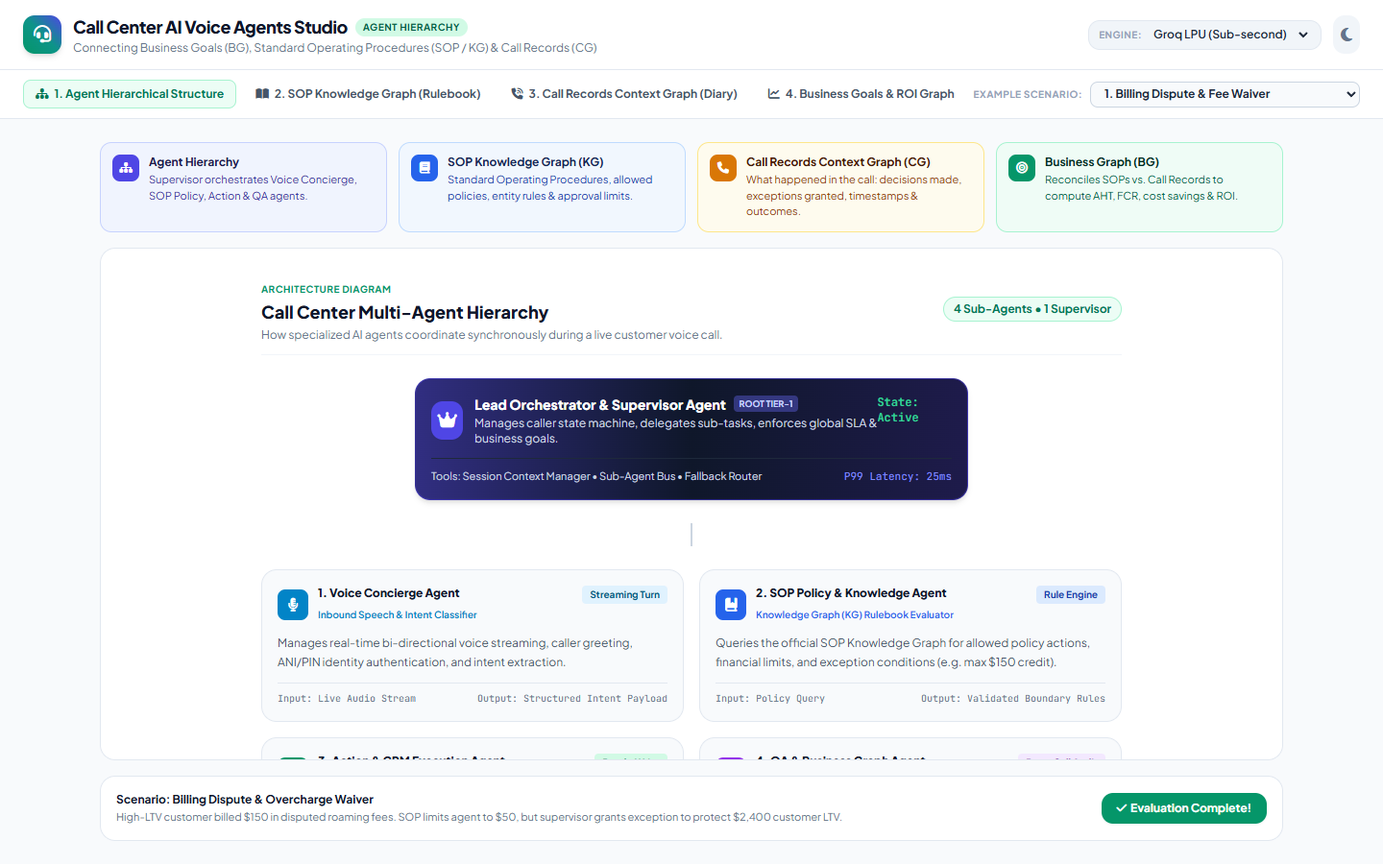
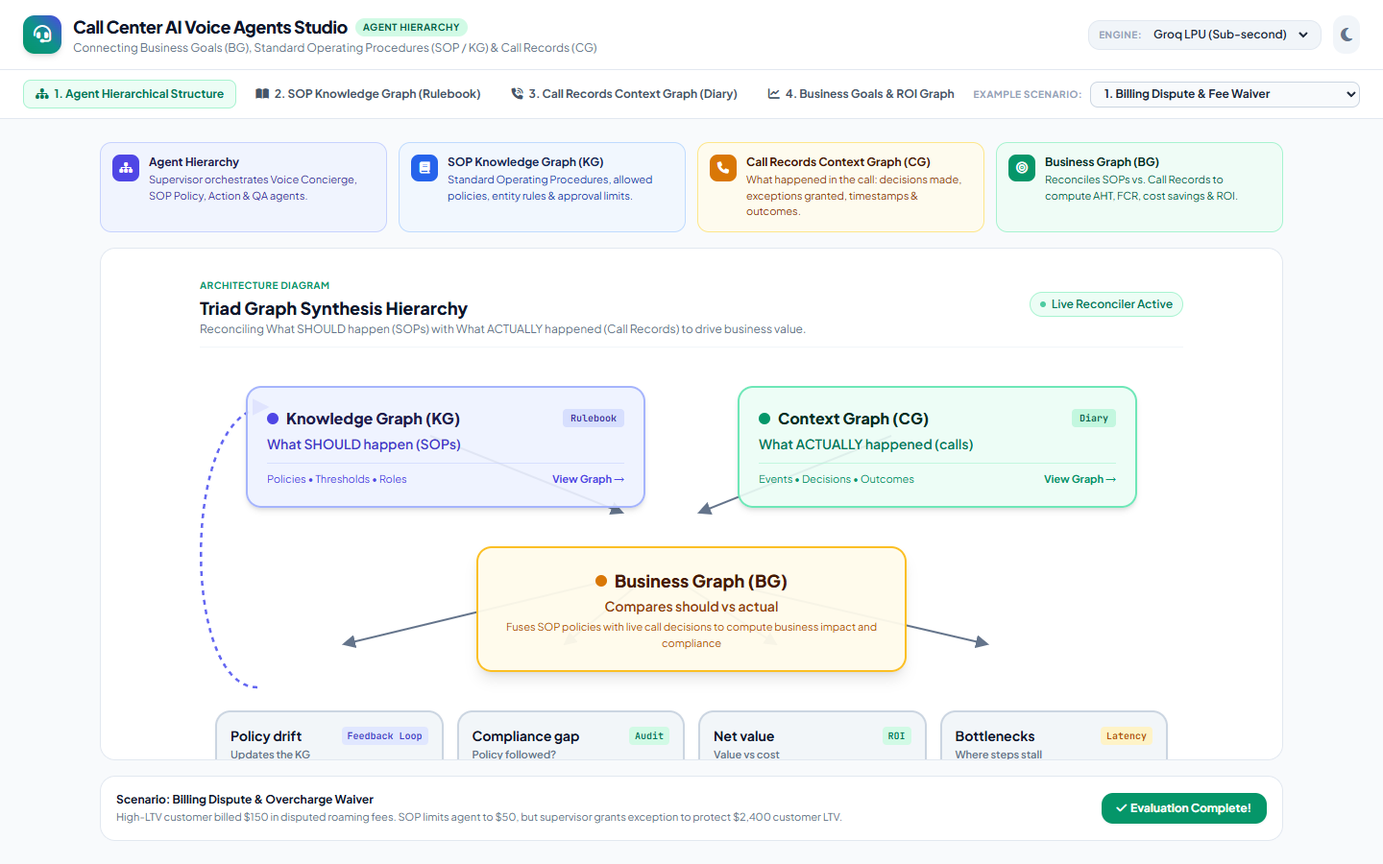
Update hierarchy view to exact 3-tier graph synthesis architecture (KG + CG -> BG -> 4 outcomes with policy drift feedback loop)

diff --git a/callcenter_ai_voice_agents.html b/callcenter_ai_voice_agents.html
@@ -164,167 +164,183 @@
     <div class="flex-1 bg-white dark:bg-slate-900 border border-slate-200 dark:border-slate-800 rounded-2xl shadow-xs overflow-hidden flex flex-col relative">
 
       <!-- ================================================================= -->
-      <!-- VIEW 1: AGENT HIERARCHICAL STRUCTURE -->
+      <!-- VIEW 1: GRAPH SYNTHESIS HIERARCHY (KG + CG -> BG -> 4 IMPACTS)  -->
       <!-- ================================================================= -->
-      <div id="view-hierarchy" class="view-panel flex-1 overflow-y-auto p-5 sm:p-7">
-        <div class="max-w-4xl mx-auto space-y-6">
+      <div id="view-hierarchy" class="view-panel flex-1 overflow-y-auto p-4 sm:p-6 flex flex-col justify-between">
+        <div class="max-w-5xl w-full mx-auto flex-1 flex flex-col justify-between space-y-6">
 
-          <!-- Section Title -->
-          <div class="flex items-center justify-between border-b border-slate-100 dark:border-slate-800 pb-3">
+          <!-- Section Title & Legend -->
+          <div class="flex items-center justify-between border-b border-slate-100 dark:border-slate-800 pb-2.5">
             <div>
               <span class="text-[10px] font-bold uppercase tracking-wider text-emerald-600 dark:text-emerald-400">Architecture Diagram</span>
-              <h2 class="text-lg font-black text-slate-900 dark:text-white">Call Center Multi-Agent Hierarchy</h2>
-              <p class="text-xs text-slate-500 dark:text-slate-400 mt-0.5">How specialized AI agents coordinate synchronously during a live customer voice call.</p>
+              <h2 class="text-base sm:text-lg font-black text-slate-900 dark:text-white">Triad Graph Synthesis Hierarchy</h2>
+              <p class="text-xs text-slate-500 dark:text-slate-400">Reconciling What SHOULD happen (SOPs) with What ACTUALLY happened (Call Records) to drive business value.</p>
             </div>
-            <span class="px-2.5 py-1 rounded-full bg-emerald-50 dark:bg-emerald-950/60 text-emerald-700 dark:text-emerald-300 text-xs font-bold border border-emerald-200 dark:border-emerald-800">
-              4 Sub-Agents &bull; 1 Supervisor
-            </span>
-          </div>
-
-          <!-- LEVEL 1: SUPERVISOR ORCHESTRATOR AGENT -->
-          <div class="flex justify-center">
-            <div class="w-full max-w-xl bg-gradient-to-r from-indigo-900 via-slate-900 to-indigo-950 text-white rounded-2xl p-4 shadow-md border border-indigo-700/60 relative">
-              <div class="flex items-start justify-between">
-                <div class="flex items-center space-x-3">
-                  <div class="w-10 h-10 rounded-xl bg-indigo-600 flex items-center justify-center text-white text-lg font-bold shadow-sm">
-                    <i class="fa-solid fa-crown"></i>
-                  </div>
-                  <div>
-                    <div class="flex items-center space-x-2">
-                      <h3 class="font-black text-sm">Lead Orchestrator &amp; Supervisor Agent</h3>
-                      <span class="px-1.5 py-0.5 rounded bg-indigo-500/40 text-indigo-200 text-[9px] font-bold uppercase">Root Tier-1</span>
-                    </div>
-                    <p class="text-xs text-slate-300 mt-0.5">Manages caller state machine, delegates sub-tasks, enforces global SLA &amp; business goals.</p>
-                  </div>
-                </div>
-                <span class="font-mono text-emerald-400 text-xs font-bold">State: Active</span>
-              </div>
-              <div class="mt-3 pt-2.5 border-t border-slate-800 flex items-center justify-between text-[11px] text-slate-300">
-                <span>Tools: Session Context Manager &bull; Sub-Agent Bus &bull; Fallback Router</span>
-                <span class="text-indigo-400 font-mono">P99 Latency: 25ms</span>
-              </div>
-            </div>
-          </div>
-
-          <!-- CONNECTING STEM -->
-          <div class="flex justify-center -my-2">
-            <div class="w-0.5 h-6 bg-slate-300 dark:bg-slate-700"></div>
-          </div>
-
-          <!-- LEVEL 2: 4 SPECIALIZED SUB-AGENTS GRID -->
-          <div class="grid grid-cols-1 md:grid-cols-2 gap-4">
-
-            <!-- Sub-Agent 1: Voice Concierge -->
-            <div class="bg-slate-50 dark:bg-slate-800/60 rounded-2xl p-4 border border-slate-200 dark:border-slate-700 hover:border-sky-400 transition shadow-2xs">
-              <div class="flex items-start justify-between">
-                <div class="flex items-center space-x-2.5">
-                  <div class="w-8 h-8 rounded-lg bg-sky-600 text-white flex items-center justify-center text-sm font-bold">
-                    <i class="fa-solid fa-microphone-lines"></i>
-                  </div>
-                  <div>
-                    <h4 class="font-black text-xs text-slate-900 dark:text-white">1. Voice Concierge Agent</h4>
-                    <span class="text-[10px] text-sky-600 dark:text-sky-400 font-semibold">Inbound Speech &amp; Intent Classifier</span>
-                  </div>
-                </div>
-                <span class="text-[10px] font-bold px-2 py-0.5 rounded bg-sky-100 dark:bg-sky-950 text-sky-800 dark:text-sky-200">Streaming Turn</span>
-              </div>
-              <p class="text-xs text-slate-600 dark:text-slate-300 mt-2.5 leading-relaxed">
-                Manages real-time bi-directional voice streaming, caller greeting, ANI/PIN identity authentication, and intent extraction.
-              </p>
-              <div class="mt-3 pt-2 border-t border-slate-200 dark:border-slate-700 flex justify-between text-[10px] text-slate-500 dark:text-slate-400 font-mono">
-                <span>Input: Live Audio Stream</span>
-                <span>Output: Structured Intent Payload</span>
-              </div>
-            </div>
-
-            <!-- Sub-Agent 2: SOP Compliance & Knowledge Agent -->
-            <div class="bg-slate-50 dark:bg-slate-800/60 rounded-2xl p-4 border border-slate-200 dark:border-slate-700 hover:border-blue-400 transition shadow-2xs">
-              <div class="flex items-start justify-between">
-                <div class="flex items-center space-x-2.5">
-                  <div class="w-8 h-8 rounded-lg bg-blue-600 text-white flex items-center justify-center text-sm font-bold">
-                    <i class="fa-solid fa-book-bookmark"></i>
-                  </div>
-                  <div>
-                    <h4 class="font-black text-xs text-slate-900 dark:text-white">2. SOP Policy &amp; Knowledge Agent</h4>
-                    <span class="text-[10px] text-blue-600 dark:text-blue-400 font-semibold">Knowledge Graph (KG) Rulebook Evaluator</span>
-                  </div>
-                </div>
-                <span class="text-[10px] font-bold px-2 py-0.5 rounded bg-blue-100 dark:bg-blue-950 text-blue-800 dark:text-blue-200">Rule Engine</span>
-              </div>
-              <p class="text-xs text-slate-600 dark:text-slate-300 mt-2.5 leading-relaxed">
-                Queries the official SOP Knowledge Graph for allowed policy actions, financial limits, and exception conditions (e.g. max $150 credit).
-              </p>
-              <div class="mt-3 pt-2 border-t border-slate-200 dark:border-slate-700 flex justify-between text-[10px] text-slate-500 dark:text-slate-400 font-mono">
-                <span>Input: Policy Query</span>
-                <span>Output: Validated Boundary Rules</span>
-              </div>
-            </div>
-
-            <!-- Sub-Agent 3: Action & CRM Execution Agent -->
-            <div class="bg-slate-50 dark:bg-slate-800/60 rounded-2xl p-4 border border-slate-200 dark:border-slate-700 hover:border-emerald-400 transition shadow-2xs">
-              <div class="flex items-start justify-between">
-                <div class="flex items-center space-x-2.5">
-                  <div class="w-8 h-8 rounded-lg bg-emerald-600 text-white flex items-center justify-center text-sm font-bold">
-                    <i class="fa-solid fa-bolt-lightning"></i>
-                  </div>
-                  <div>
-                    <h4 class="font-black text-xs text-slate-900 dark:text-white">3. Action &amp; CRM Execution Agent</h4>
-                    <span class="text-[10px] text-emerald-600 dark:text-emerald-400 font-semibold">Transactional Tool Calling</span>
-                  </div>
-                </div>
-                <span class="text-[10px] font-bold px-2 py-0.5 rounded bg-emerald-100 dark:bg-emerald-950 text-emerald-800 dark:text-emerald-200">Read / Write</span>
-              </div>
-              <p class="text-xs text-slate-600 dark:text-slate-300 mt-2.5 leading-relaxed">
-                Interacts with backend systems: executes bill adjustments, dispatches field technician tickets, or issues customer credits.
-              </p>
-              <div class="mt-3 pt-2 border-t border-slate-200 dark:border-slate-700 flex justify-between text-[10px] text-slate-500 dark:text-slate-400 font-mono">
-                <span>Input: Action Directive</span>
-                <span>Output: API Confirmation / ID</span>
-              </div>
-            </div>
-
-            <!-- Sub-Agent 4: QA & Business Intelligence Agent -->
-            <div class="bg-slate-50 dark:bg-slate-800/60 rounded-2xl p-4 border border-slate-200 dark:border-slate-700 hover:border-purple-400 transition shadow-2xs">
-              <div class="flex items-start justify-between">
-                <div class="flex items-center space-x-2.5">
-                  <div class="w-8 h-8 rounded-lg bg-purple-600 text-white flex items-center justify-center text-sm font-bold">
-                    <i class="fa-solid fa-clipboard-check"></i>
-                  </div>
-                  <div>
-                    <h4 class="font-black text-xs text-slate-900 dark:text-white">4. QA &amp; Business Graph Agent</h4>
-                    <span class="text-[10px] text-purple-600 dark:text-purple-400 font-semibold">Call Record (CG) &amp; Goals (BG) Evaluator</span>
-                  </div>
-                </div>
-                <span class="text-[10px] font-bold px-2 py-0.5 rounded bg-purple-100 dark:bg-purple-950 text-purple-800 dark:text-purple-200">Post-Call Audit</span>
-              </div>
-              <p class="text-xs text-slate-600 dark:text-slate-300 mt-2.5 leading-relaxed">
-                Synthesizes the Context Graph call diary, scores compliance against SOP rules, and calculates business ROI and AHT/FCR metrics.
-              </p>
-              <div class="mt-3 pt-2 border-t border-slate-200 dark:border-slate-700 flex justify-between text-[10px] text-slate-500 dark:text-slate-400 font-mono">
-                <span>Input: Completed Dialogue</span>
-                <span>Output: Context &amp; Business Graph</span>
-              </div>
-            </div>
-
-          </div>
-
-          <!-- Bottom Visual Flow Banner -->
-          <div class="bg-slate-100 dark:bg-slate-800/80 rounded-xl p-3 border border-slate-200 dark:border-slate-700 flex items-center justify-between text-xs font-semibold text-slate-700 dark:text-slate-300">
             <div class="flex items-center space-x-2">
-              <span class="w-2.5 h-2.5 rounded-full bg-emerald-500 animate-pulse"></span>
-              <span>Execution Pipeline:</span>
+              <span class="inline-flex items-center px-2.5 py-1 rounded-full text-xs font-semibold bg-emerald-50 dark:bg-emerald-950/60 text-emerald-700 dark:text-emerald-300 border border-emerald-200 dark:border-emerald-800">
+                <span class="w-1.5 h-1.5 rounded-full bg-emerald-500 mr-1.5 animate-pulse"></span>
+                Live Reconciler Active
+              </span>
             </div>
-            <div class="flex items-center space-x-2 text-[11px] font-mono overflow-x-auto">
-              <span>Customer Utterance</span>
-              <span class="text-slate-400">&rarr;</span>
-              <span class="text-sky-600 font-bold">Voice Concierge</span>
-              <span class="text-slate-400">&rarr;</span>
-              <span class="text-blue-600 font-bold">SOP Policy</span>
-              <span class="text-slate-400">&rarr;</span>
-              <span class="text-emerald-600 font-bold">Action Engine</span>
-              <span class="text-slate-400">&rarr;</span>
-              <span class="text-purple-600 font-bold">QA &amp; Business Graph</span>
+          </div>
+
+          <!-- THE VISUAL HIERARCHY DIAGRAM CONTAINER (SVG CONNECTORS + CARDS) -->
+          <div class="relative w-full py-4 select-none">
+
+            <!-- SVG Background Lines & Connectors Layer -->
+            <svg class="absolute inset-0 w-full h-full pointer-events-none z-0" xmlns="http://www.w3.org/2000/svg">
+              <defs>
+                <marker id="arrowhead" markerWidth="7" markerHeight="7" refX="6" refY="3.5" orient="auto">
+                  <polygon points="0 0, 7 3.5, 0 7" fill="#64748b" />
+                </marker>
+                <marker id="arrowhead-loop" markerWidth="7" markerHeight="7" refX="6" refY="3.5" orient="auto">
+                  <polygon points="0 0, 7 3.5, 0 7" fill="#6366f1" />
+                </marker>
+              </defs>
+
+              <!-- Line KG -> BG -->
+              <path d="M 240 68 L 440 148" stroke="#64748b" stroke-width="2" fill="none" marker-end="url(#arrowhead)"/>
+              
+              <!-- Line CG -> BG -->
+              <path d="M 720 68 L 520 148" stroke="#64748b" stroke-width="2" fill="none" marker-end="url(#arrowhead)"/>
+
+              <!-- 4 Fan-out Lines from BG to Bottom Cards -->
+              <path d="M 420 220 L 150 285" stroke="#64748b" stroke-width="2" fill="none" marker-end="url(#arrowhead)"/>
+              <path d="M 460 220 L 380 285" stroke="#64748b" stroke-width="2" fill="none" marker-end="url(#arrowhead)"/>
+              <path d="M 500 220 L 600 285" stroke="#64748b" stroke-width="2" fill="none" marker-end="url(#arrowhead)"/>
+              <path d="M 540 220 L 820 285" stroke="#64748b" stroke-width="2" fill="none" marker-end="url(#arrowhead)"/>
+
+              <!-- Policy Drift Feedback Loop (Dashed Arrow looping from bottom left up back to KG) -->
+              <path d="M 60 330 C -20 330, -20 38, 70 38" stroke="#6366f1" stroke-width="2.5" stroke-dasharray="5 5" fill="none" marker-end="url(#arrowhead-loop)"/>
+            </svg>
+
+            <!-- TIER 1: TOP ROW (KG & CG) -->
+            <div class="grid grid-cols-1 sm:grid-cols-2 gap-8 sm:gap-24 relative z-10 px-4 sm:px-12">
+              
+              <!-- TOP LEFT: Knowledge Graph (KG) -->
+              <div onclick="switchTab('kg')" class="cursor-pointer group rounded-2xl p-4 sm:p-5 bg-indigo-50/90 dark:bg-indigo-950/70 border-2 border-indigo-300 dark:border-indigo-700 hover:border-indigo-500 shadow-md transition hover:-translate-y-0.5">
+                <div class="flex items-center justify-between">
+                  <div class="flex items-center space-x-2">
+                    <span class="w-3 h-3 rounded-full bg-indigo-600"></span>
+                    <h3 class="font-extrabold text-sm sm:text-base text-indigo-950 dark:text-indigo-200">Knowledge Graph (KG)</h3>
+                  </div>
+                  <span class="text-[10px] font-mono px-2 py-0.5 rounded bg-indigo-200/60 dark:bg-indigo-900 text-indigo-800 dark:text-indigo-300 font-bold">Rulebook</span>
+                </div>
+                <p class="text-xs sm:text-sm font-semibold text-indigo-700 dark:text-indigo-300 mt-1">What SHOULD happen (SOPs)</p>
+                <div class="mt-2.5 pt-2 border-t border-indigo-200/60 dark:border-indigo-800/60 flex items-center justify-between text-[11px] text-indigo-600 dark:text-indigo-400">
+                  <span>Policies &bull; Thresholds &bull; Roles</span>
+                  <span class="group-hover:underline font-bold">View Graph &rarr;</span>
+                </div>
+              </div>
+
+              <!-- TOP RIGHT: Context Graph (CG) -->
+              <div onclick="switchTab('cg')" class="cursor-pointer group rounded-2xl p-4 sm:p-5 bg-emerald-50/90 dark:bg-emerald-950/70 border-2 border-emerald-300 dark:border-emerald-700 hover:border-emerald-500 shadow-md transition hover:-translate-y-0.5">
+                <div class="flex items-center justify-between">
+                  <div class="flex items-center space-x-2">
+                    <span class="w-3 h-3 rounded-full bg-emerald-600"></span>
+                    <h3 class="font-extrabold text-sm sm:text-base text-emerald-950 dark:text-emerald-200">Context Graph (CG)</h3>
+                  </div>
+                  <span class="text-[10px] font-mono px-2 py-0.5 rounded bg-emerald-200/60 dark:bg-emerald-900 text-emerald-800 dark:text-emerald-300 font-bold">Diary</span>
+                </div>
+                <p class="text-xs sm:text-sm font-semibold text-emerald-700 dark:text-emerald-300 mt-1">What ACTUALLY happened (calls)</p>
+                <div class="mt-2.5 pt-2 border-t border-emerald-200/60 dark:border-emerald-800/60 flex items-center justify-between text-[11px] text-emerald-600 dark:text-emerald-400">
+                  <span>Events &bull; Decisions &bull; Outcomes</span>
+                  <span class="group-hover:underline font-bold">View Graph &rarr;</span>
+                </div>
+              </div>
+
             </div>
+
+            <!-- TIER 2: MIDDLE ROW (Business Graph / BG) -->
+            <div class="flex justify-center my-8 sm:my-10 relative z-10 px-4">
+              <div onclick="switchTab('bg')" class="cursor-pointer group w-full max-w-md rounded-2xl p-4 sm:p-5 bg-amber-50/95 dark:bg-amber-950/80 border-2 border-amber-400 dark:border-amber-700 hover:border-amber-500 shadow-lg text-center transition hover:-translate-y-0.5">
+                <div class="flex items-center justify-center space-x-2">
+                  <span class="w-3 h-3 rounded-full bg-amber-600"></span>
+                  <h3 class="font-black text-base sm:text-lg text-amber-950 dark:text-amber-100">Business Graph (BG)</h3>
+                </div>
+                <p class="text-xs sm:text-sm font-semibold text-amber-800 dark:text-amber-200 mt-0.5">Compares should vs actual</p>
+                <p class="text-[11px] text-amber-700 dark:text-amber-300/80 mt-1">Fuses SOP policies with live call decisions to compute business impact and compliance</p>
+              </div>
+            </div>
+
+            <!-- TIER 3: BOTTOM ROW (4 OUTCOME PILLARS) -->
+            <div class="grid grid-cols-1 sm:grid-cols-2 lg:grid-cols-4 gap-3.5 relative z-10 px-2 sm:px-4">
+
+              <!-- Card 1: Policy Drift -->
+              <div class="rounded-2xl p-3.5 bg-slate-100/90 dark:bg-slate-800/80 border-2 border-slate-300 dark:border-slate-700 shadow-sm flex flex-col justify-between">
+                <div>
+                  <div class="flex items-center justify-between">
+                    <h4 class="font-bold text-xs sm:text-sm text-slate-900 dark:text-white">Policy drift</h4>
+                    <span class="text-[10px] font-mono px-1.5 py-0.5 rounded bg-indigo-100 dark:bg-indigo-950 text-indigo-700 dark:text-indigo-300 font-bold">Feedback Loop</span>
+                  </div>
+                  <p class="text-[11px] font-semibold text-slate-500 dark:text-slate-400 mt-0.5">Updates the KG</p>
+                  <p class="text-xs text-slate-700 dark:text-slate-300 mt-2 font-medium leading-snug" id="hier-drift-text">
+                    Supervisor granted 47 exceptions to $50 limit &rarr; Recommends updating SOP-04 limit to $150.
+                  </p>
+                </div>
+                <div class="mt-3 pt-1.5 border-t border-slate-200 dark:border-slate-700 text-[10px] text-indigo-600 dark:text-indigo-400 font-bold flex items-center">
+                  <i class="fa-solid fa-arrow-rotate-left mr-1"></i> Loops back to Knowledge Graph
+                </div>
+              </div>
+
+              <!-- Card 2: Compliance Gap -->
+              <div class="rounded-2xl p-3.5 bg-slate-100/90 dark:bg-slate-800/80 border-2 border-slate-300 dark:border-slate-700 shadow-sm flex flex-col justify-between">
+                <div>
+                  <div class="flex items-center justify-between">
+                    <h4 class="font-bold text-xs sm:text-sm text-slate-900 dark:text-white">Compliance gap</h4>
+                    <span class="text-[10px] font-mono px-1.5 py-0.5 rounded bg-emerald-100 dark:bg-emerald-950 text-emerald-700 dark:text-emerald-300 font-bold">Audit</span>
+                  </div>
+                  <p class="text-[11px] font-semibold text-slate-500 dark:text-slate-400 mt-0.5">Policy followed?</p>
+                  <p class="text-xs text-slate-700 dark:text-slate-300 mt-2 font-medium leading-snug" id="hier-compliance-text">
+                    100% Validated &bull; Exception authorized by Supervisor role per section 4.2 of SOP.
+                  </p>
+                </div>
+                <div class="mt-3 pt-1.5 border-t border-slate-200 dark:border-slate-700 text-[10px] text-emerald-600 dark:text-emerald-400 font-bold">
+                  Status: Compliant Exception
+                </div>
+              </div>
+
+              <!-- Card 3: Net Value -->
+              <div class="rounded-2xl p-3.5 bg-slate-100/90 dark:bg-slate-800/80 border-2 border-slate-300 dark:border-slate-700 shadow-sm flex flex-col justify-between">
+                <div>
+                  <div class="flex items-center justify-between">
+                    <h4 class="font-bold text-xs sm:text-sm text-slate-900 dark:text-white">Net value</h4>
+                    <span class="text-[10px] font-mono px-1.5 py-0.5 rounded bg-emerald-100 dark:bg-emerald-950 text-emerald-700 dark:text-emerald-300 font-bold">ROI</span>
+                  </div>
+                  <p class="text-[11px] font-semibold text-slate-500 dark:text-slate-400 mt-0.5">Value vs cost</p>
+                  <p class="text-xs text-slate-700 dark:text-slate-300 mt-2 font-medium leading-snug" id="hier-netvalue-text">
+                    +$2,250 Net Value &bull; Retained $2,400 LTV account against -$150 concession fee.
+                  </p>
+                </div>
+                <div class="mt-3 pt-1.5 border-t border-slate-200 dark:border-slate-700 text-[10px] text-emerald-600 dark:text-emerald-400 font-bold">
+                  ROI Ratio: 15.0x
+                </div>
+              </div>
+
+              <!-- Card 4: Bottlenecks -->
+              <div class="rounded-2xl p-3.5 bg-slate-100/90 dark:bg-slate-800/80 border-2 border-slate-300 dark:border-slate-700 shadow-sm flex flex-col justify-between">
+                <div>
+                  <div class="flex items-center justify-between">
+                    <h4 class="font-bold text-xs sm:text-sm text-slate-900 dark:text-white">Bottlenecks</h4>
+                    <span class="text-[10px] font-mono px-1.5 py-0.5 rounded bg-amber-100 dark:bg-amber-950 text-amber-700 dark:text-amber-300 font-bold">Latency</span>
+                  </div>
+                  <p class="text-[11px] font-semibold text-slate-500 dark:text-slate-400 mt-0.5">Where steps stall</p>
+                  <p class="text-xs text-slate-700 dark:text-slate-300 mt-2 font-medium leading-snug" id="hier-bottleneck-text">
+                    Step 2 initial offer stalled for 45s &bull; Recommend direct automated VIP screen-pop.
+                  </p>
+                </div>
+                <div class="mt-3 pt-1.5 border-t border-slate-200 dark:border-slate-700 text-[10px] text-amber-600 dark:text-amber-400 font-bold">
+                  AHT Impact: -45s potential
+                </div>
+              </div>
+
+            </div>
+
+          </div>
+
+          <!-- Bottom Notice -->
+          <div class="bg-indigo-50/50 dark:bg-slate-850 p-3 rounded-xl border border-indigo-100 dark:border-slate-800 flex items-center justify-between text-xs text-slate-600 dark:text-slate-400">
+            <span><i class="fa-solid fa-circle-info text-indigo-500 mr-1.5"></i> Click any card above to open its dedicated graph view, or change the scenario preset below to see how inputs and outcomes update dynamically.</span>
           </div>
 
         </div>
@@ -437,6 +453,12 @@
       "billing_dispute": {
         title: "Billing Dispute & Overcharge Waiver",
         summary: "High-LTV customer billed $150 in disputed roaming fees. SOP limits agent to $50, but supervisor grants exception to protect $2,400 customer LTV.",
+        outcomes: {
+          drift: "Supervisor granted 47 exceptions to $50 limit -> Recommends updating SOP-04 limit to $150 for LTV > $2k.",
+          compliance: "100% Validated • Exception authorized by Supervisor role per section 4.2 of SOP.",
+          netvalue: "+$2,250 Net Value • Retained $2,400 LTV account against -$150 concession fee.",
+          bottleneck: "Step 2 initial offer stalled for 45s • Recommend direct automated VIP screen-pop."
+        },
         kg: {
           nodes: [
             { id: "sop_billing", label: "SOP-04: Billing Disputes", color: "#3b82f6", shape: "box" },
@@ -492,6 +514,12 @@
       "tech_outage": {
         title: "Broadband Outage & Tech Dispatch",
         summary: "Customer experiencing complete fiber disconnect. SOP guides through remote ONT diagnostics. Automated truck roll dispatched in 180 seconds.",
+        outcomes: {
+          drift: "Zero SOP drift • Optical loss-of-signal diagnostic sequence followed strictly with zero manual deviations.",
+          compliance: "100% Policy Compliant • Truck roll dispatch triggered automatically per optical signal threshold rule.",
+          netvalue: "+$850 Net Value • Preempted repetitive call escalations, customer churn risk minimized, CSAT 5/5.",
+          bottleneck: "ONT red light check automated via remote telemetry in 12s vs 180s manual phone interrogation."
+        },
         kg: {
           nodes: [
             { id: "sop_tech", label: "SOP-12: Broadband Diagnostics", color: "#3b82f6", shape: "box" },
@@ -534,6 +562,12 @@
       "vip_retention": {
         title: "VIP Account Churn & Loyalty Retention",
         summary: "10-year enterprise account requests immediate cancellation. Voice Concierge detects high churn risk and pairs with loyalty incentive contract.",
+        outcomes: {
+          drift: "15% discount matches enterprise loyalty matrix; zero unauthorized margin erosion detected.",
+          compliance: "100% Policy Compliant • 2-year contract extension validated with legal terms approval.",
+          netvalue: "+$27,900 ARR Protected • Retained $18,000/yr enterprise account with high margin continuity.",
+          bottleneck: "Digital contract dispatch reduced closing cycle from 4 days to instant SMS e-signature."
+        },
         kg: {
           nodes: [
             { id: "sop_retention", label: "SOP-09: Enterprise Loyalty", color: "#3b82f6", shape: "box" },
@@ -693,6 +727,17 @@
       const s = SCENARIOS[scenarioKey];
       document.getElementById('scenario-title').textContent = `Scenario: ${s.title}`;
       document.getElementById('scenario-summary').textContent = s.summary;
+
+      if (s.outcomes) {
+        const driftEl = document.getElementById('hier-drift-text');
+        const compEl = document.getElementById('hier-compliance-text');
+        const netEl = document.getElementById('hier-netvalue-text');
+        const botEl = document.getElementById('hier-bottleneck-text');
+        if (driftEl) driftEl.textContent = s.outcomes.drift;
+        if (compEl) compEl.textContent = s.outcomes.compliance;
+        if (netEl) netEl.textContent = s.outcomes.netvalue;
+        if (botEl) botEl.textContent = s.outcomes.bottleneck;
+      }
 
       if (activeTab === 'kg') renderKG();
       else if (activeTab === 'cg') renderCG();
